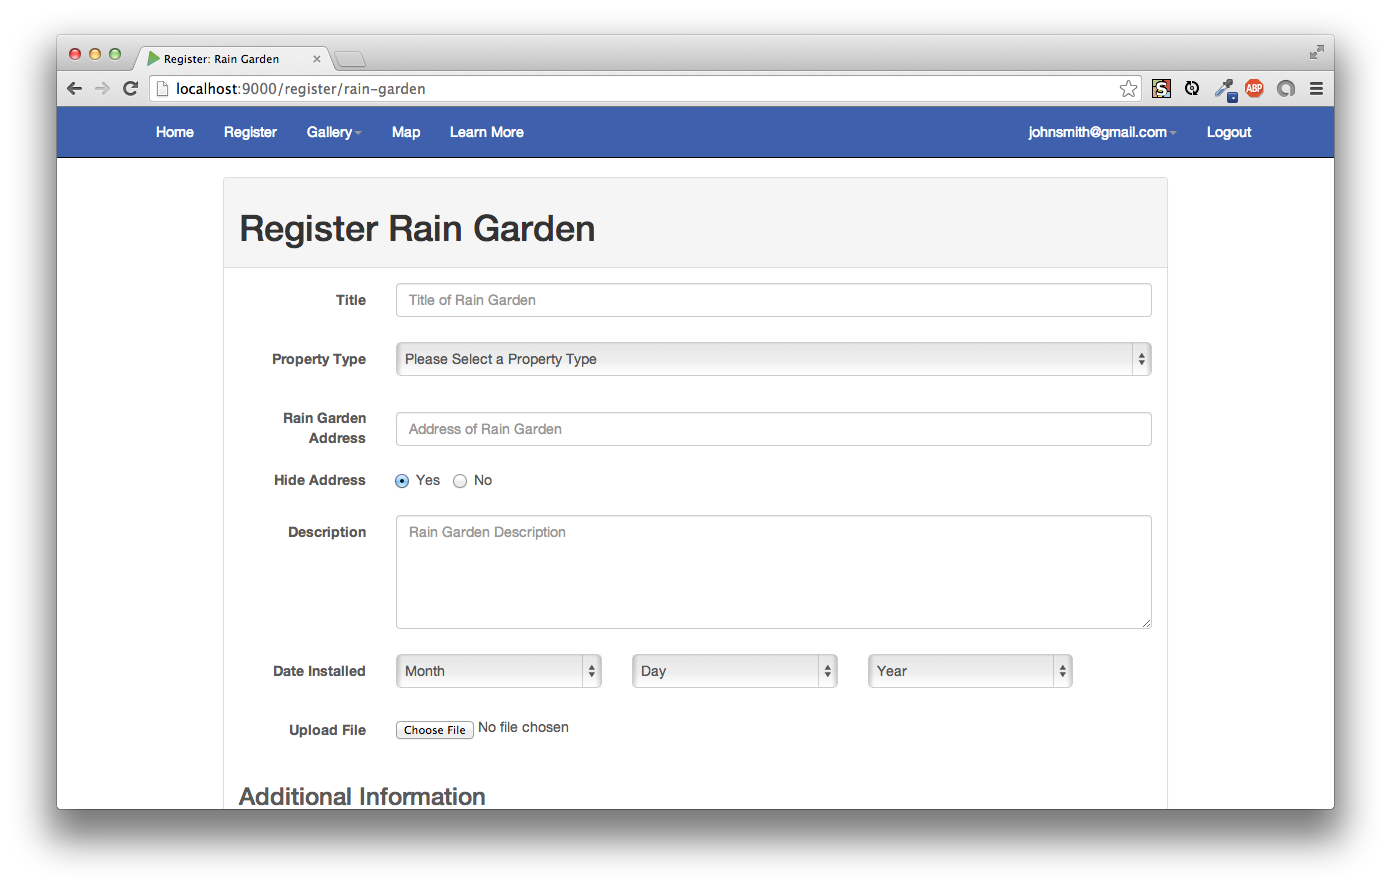
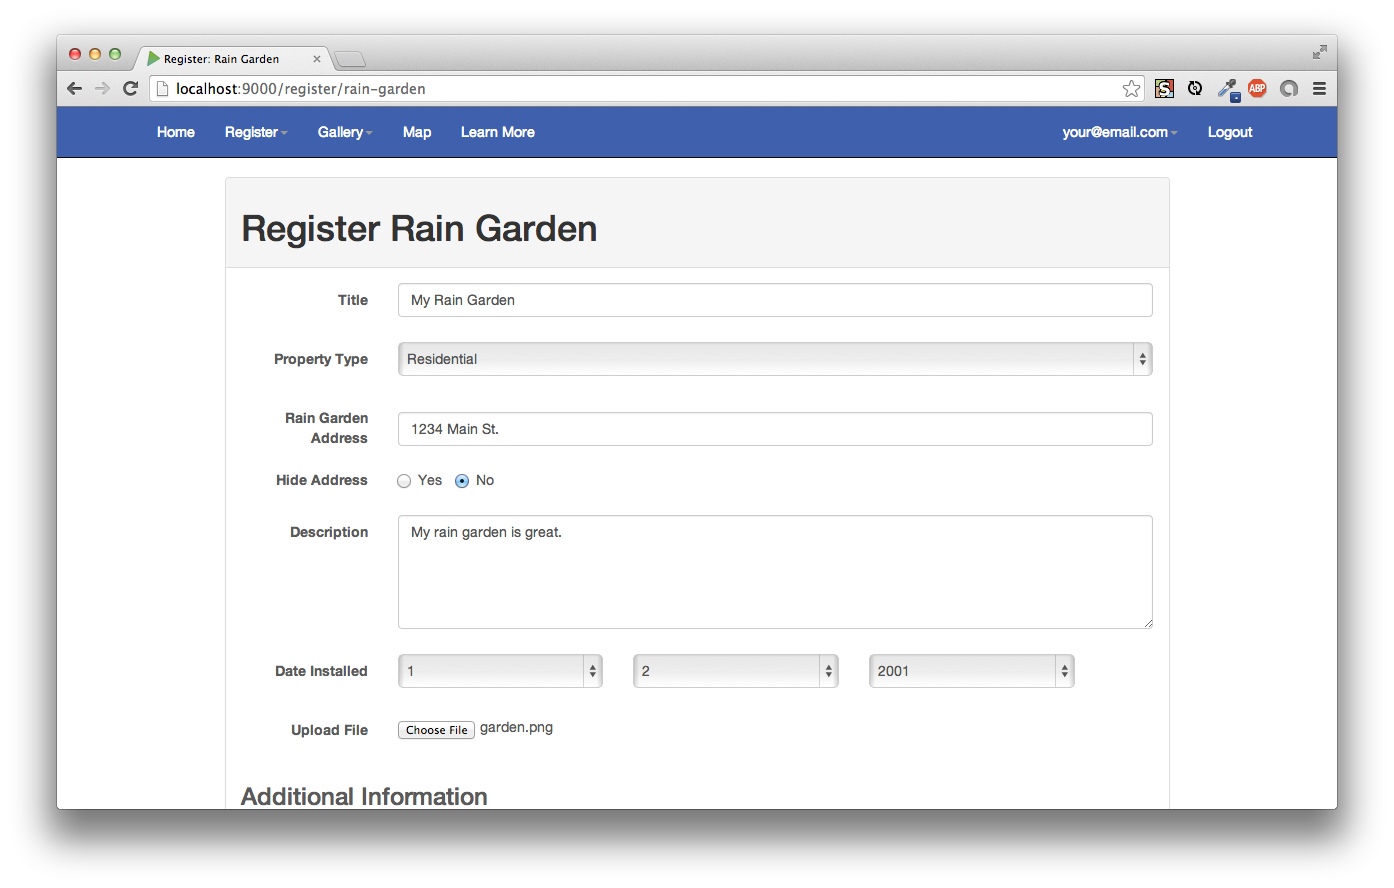
Menu fix.
Also use-case file uploads.

diff --git a/app/views/Main.scala.html b/app/views/Main.scala.html
@@ -110,11 +110,13 @@
         <ul class="nav navbar-nav">
           <li class="@("active".when(title == "Index"))"><a href="/">Home</a></li>
           
-          @if(Secured.isLoggedIn(ctx())) {
-          		<li class="@("active".when(title == "Rain Garden Registry Form"))"><a href="/register">Register</a></li>
-          } else {
-          		<li class="@("active".when(title == "Rain Garden Registry Form"))"><a href="/signup">Register</a></li>
-          }
+          <li class="dropdown"><a class="dropdown-toggle" data-toggle="dropdown" href="#">Register<b class="caret"></b></a>
+              <ul class="dropdown-menu" role="menu">
+                <li><a href="/register/rain-garden ">Rain Garden</a></li>
+                <li><a href="/register/rain-barrel">Rain Barrel</a></li>
+                <li><a href="/register/permeable-pavers">Permable Pavers</a></li>
+            </ul>
+        </li>
           <li class="dropdown"><a class="dropdown-toggle" data-toggle="dropdown" href="#">Gallery<b class="caret"></b></a>
 	            <ul class="dropdown-menu" role="menu">
 	              <li><a href="/gallery/rain-garden ">Rain Garden</a></li>
@@ -131,7 +133,6 @@
         	<li class="dropdown"><a class="dropdown-toggle" data-toggle="dropdown" href="#">@Secured.getUser(ctx())<b class="caret"></b></a>
 	            <ul class="dropdown-menu" role="menu">
 	              <li><a href="/profile">View Profile</a></li>
-	              <li><a href="edit-profile.html">Edit Profile</a></li>
 	            </ul>
 	        </li>
 				<li class="@("active".when(title == "Logout"))"><a href="@routes.Application.logout()">Logout</a></li>
